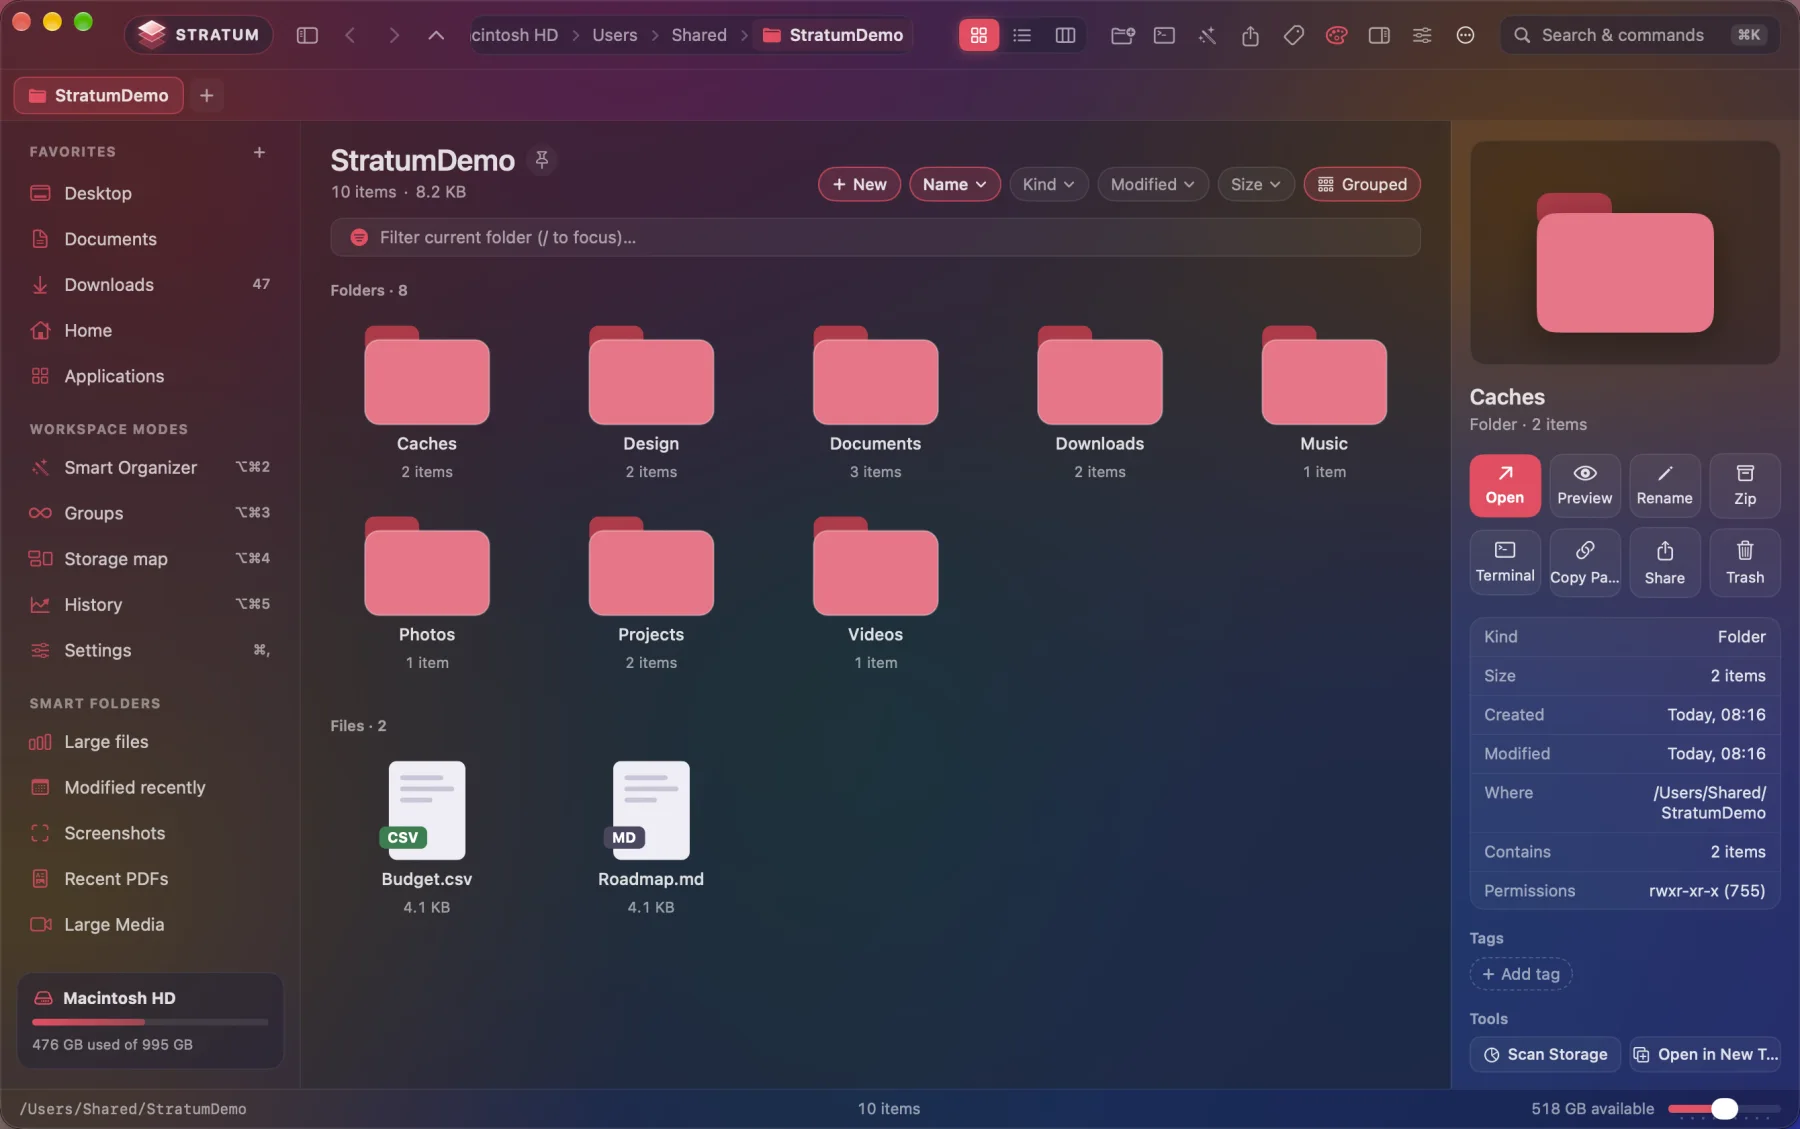
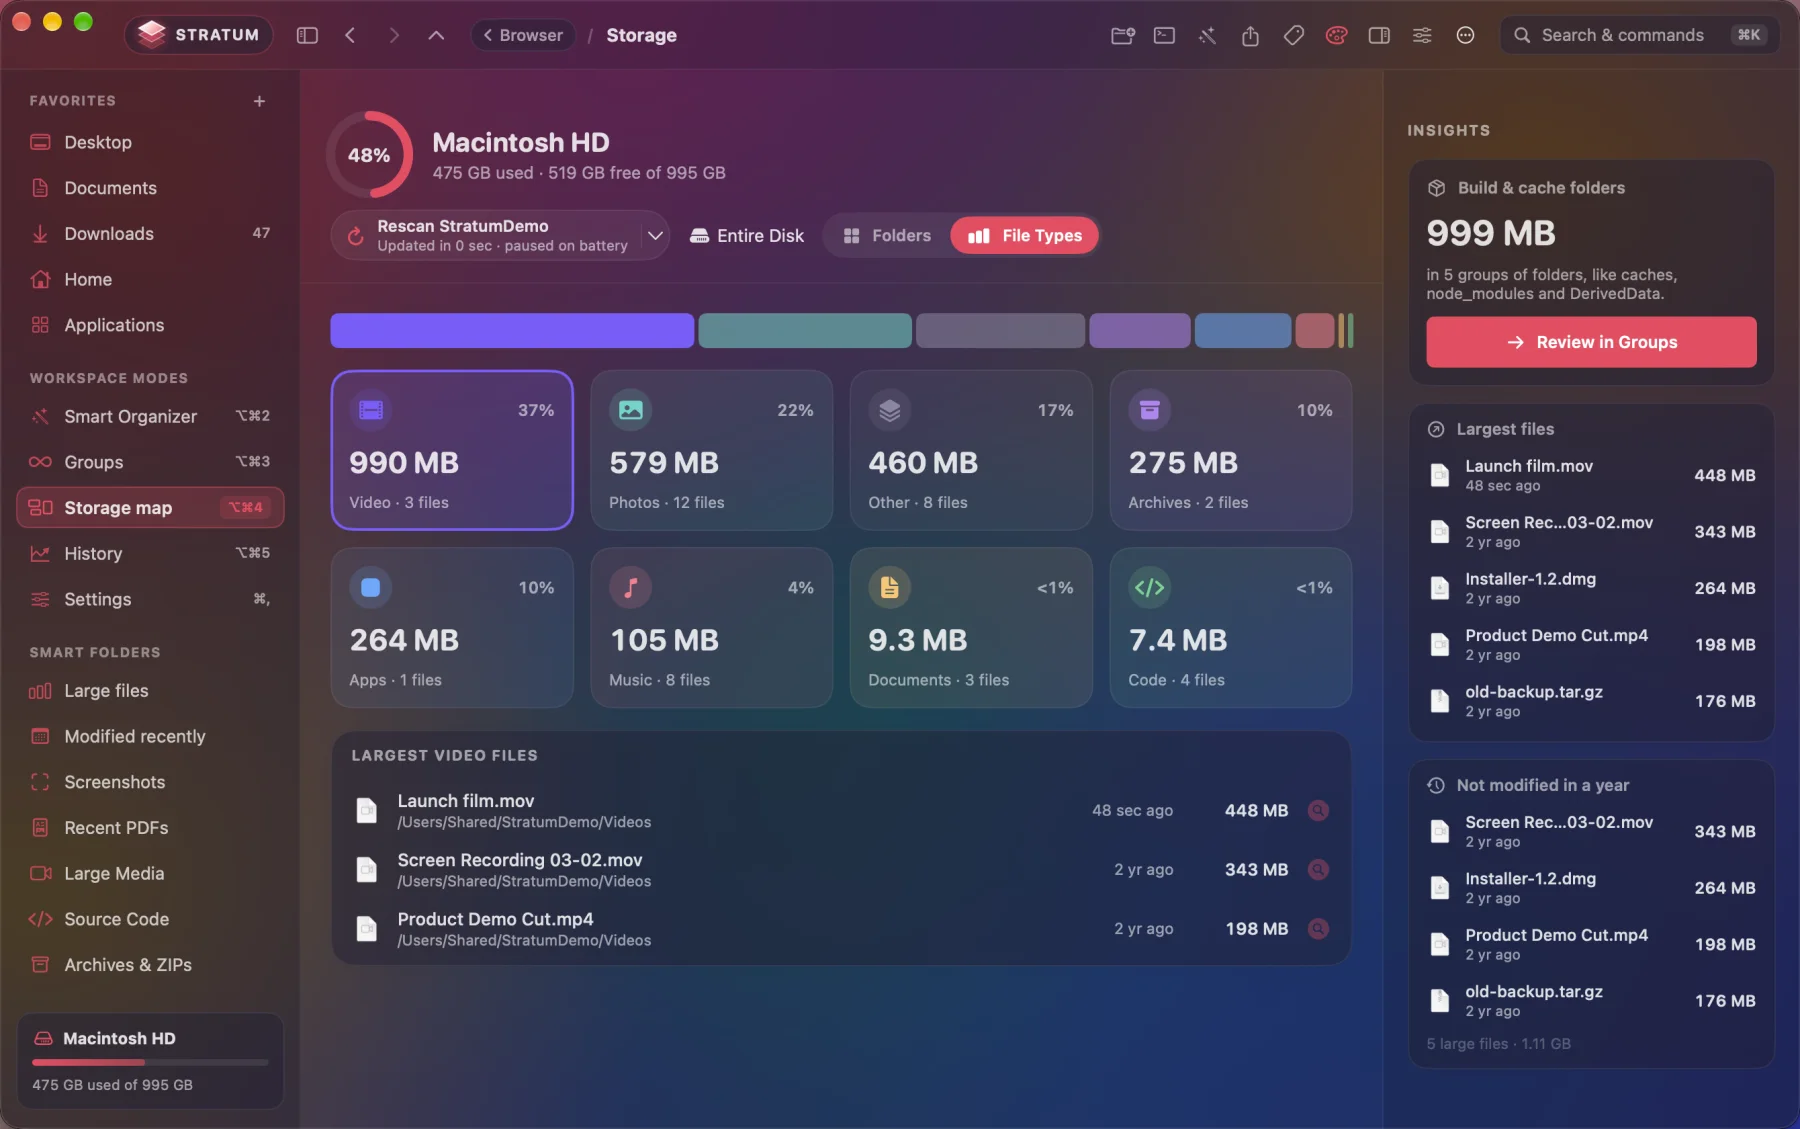
Stratum page: lead with the File Types view in glass

diff --git a/stratum.html b/stratum.html
@@ -240,7 +240,7 @@ footer a{text-decoration:none} footer a:hover{color:var(--text)}
     <div class="under" aria-hidden="true">
       <figure class="win">
         <img src="assets/stratum/glass.webp" alt="" width="1800" height="1128" />
-        <figcaption>Real glass: the window lets whatever is behind it show through.</figcaption>
+        <figcaption>Your disk by file type, in a window of real glass.</figcaption>
       </figure>
     </div>
     <canvas id="sky" aria-hidden="true"></canvas>
